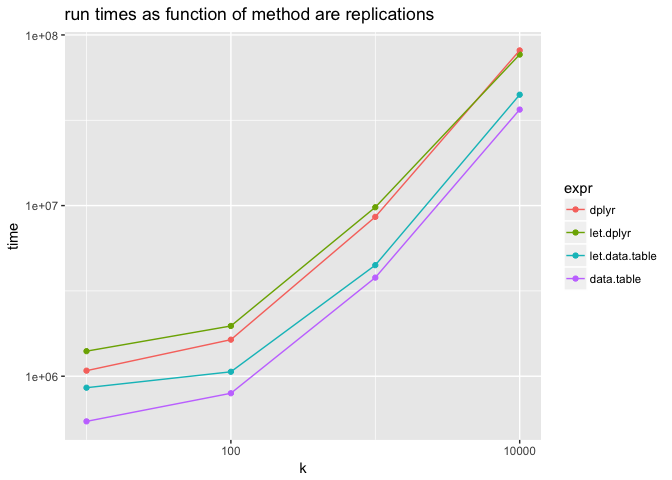
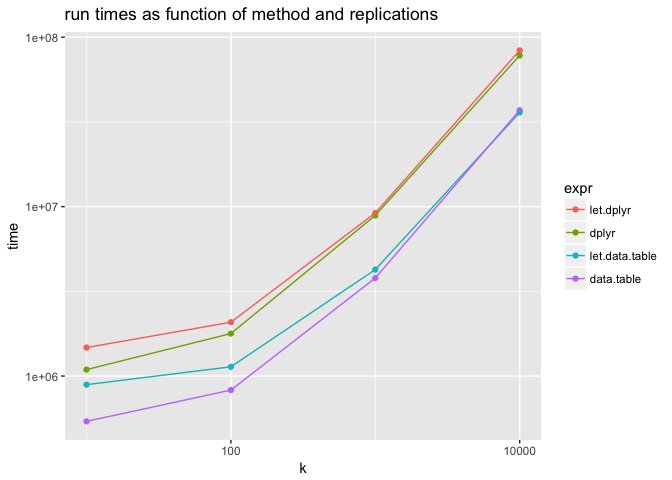
timings document gapply is expensive

diff --git a/checks/SmallTimings.md b/checks/SmallTimings.md
@@ -96,7 +96,7 @@ res$expr <- reorder(res$expr, -res$time)
 ggplot(data=res,aes(x=k,y=time,color=expr)) +
   geom_point() + geom_line() +
   scale_x_log10() + scale_y_log10() +
-  ggtitle("run times as function of method are replications")
+  ggtitle("run times as function of method and replications")
 ```
 
 ![](SmallTimings_files/figure-markdown_github/pressure-1.png)
